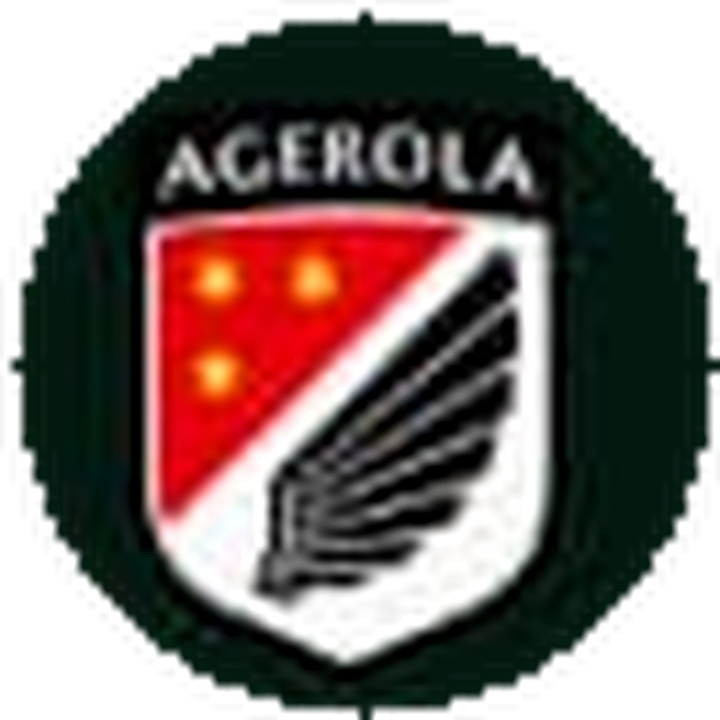
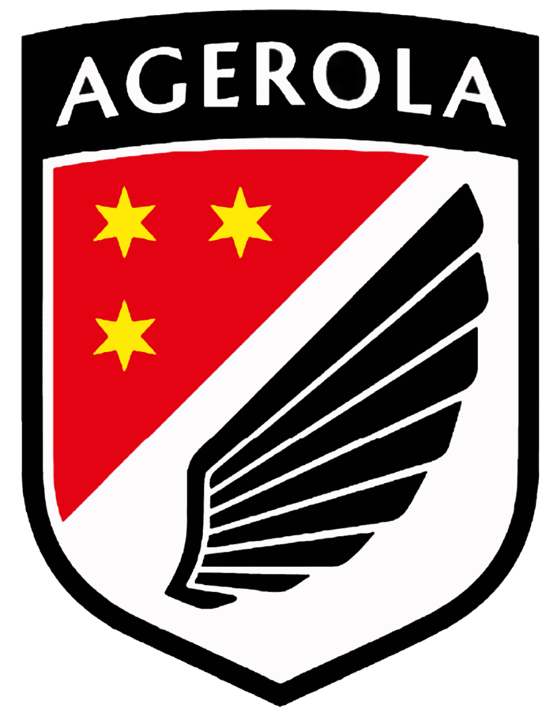
feat(catalog): integrazione loghi ufficiali Agerola e Virtus Stabia (Eccellenza Campania)

diff --git a/CONTINUA_DA_QUI.md b/CONTINUA_DA_QUI.md
@@ -4,8 +4,8 @@ File di passaggio tra sessioni / account Grok.
 **Aprilo per primo** se stai riprendendo il progetto.
 
 Ultimo aggiornamento: **2026-09-08**
-Ultimo fatto: **Integrazione Logo Ufficiale Virtus Puteolana (Eccellenza Campania Girone A)** — Scaricato e integrato il logo ad alta risoluzione in `immagini/squadre-loghi/ecc-virtus-puteolana.png` collegato al catalogo squadre e a focus.html. Cache `PUTEOLANA1`.
-Feature precedente: **Integrazione Logo Ufficiale Santa Maria la Carità** — Cache `SANTAMARIA1`.
+Ultimo fatto: **Integrazione Loghi Ufficiali Agerola (Eccellenza Campania B) e Virtus Stabia (Eccellenza Campania A)** — Scaricati e integrati i loghi ad alta risoluzione in `immagini/squadre-loghi/ecc-agerola.png` e `immagini/squadre-loghi/ecc-virtus-stabia.png`. Cache `AGEROLA1`.
+Feature precedente: **Integrazione Logo Ufficiale Virtus Puteolana** — Cache `PUTEOLANA1`.
 Sito pubblico: **https://elisee-scout.vercel.app**
 Repo: **https://github.com/eliseomiraglia2704-source/elisee-scout** (`main`)
 
